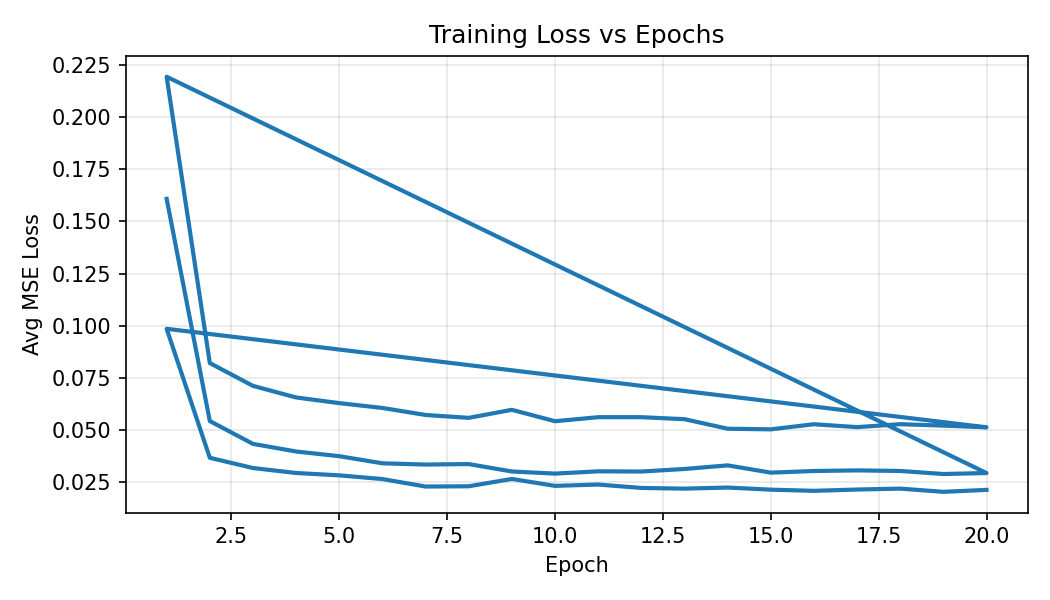
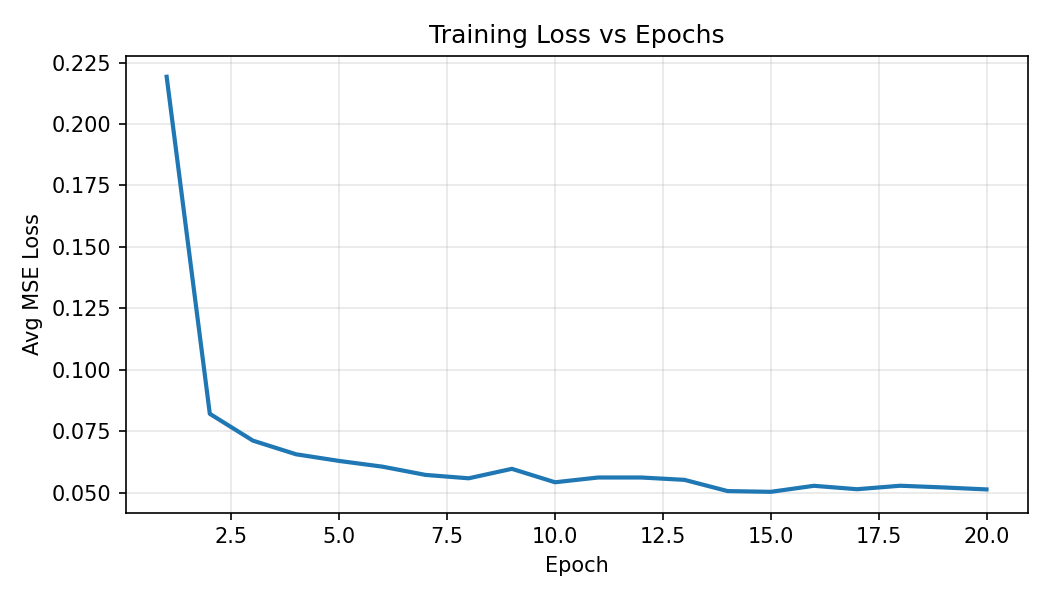
clean up

diff --git a/train.py b/train.py
@@ -1,7 +1,6 @@
 from __future__ import annotations
 
 import math
-from copy import deepcopy
 from dataclasses import dataclass
 from pathlib import Path
 
@@ -25,8 +24,6 @@ EPOCHS = 20
 NUM_WORKERS = 2
 SAVE_EVERY_EPOCHS = 1
 SUBSET_FRACTION = 0.1
-USE_EMA = True
-EMA_BETA = 0.999
 GRAD_ACCUM_STEPS = 4
 # Resume training from checkpoints/ckpt_latest.pt if present
 RESUME_TRAINING = True
@@ -49,8 +46,8 @@ class FlatImageDataset(Dataset):
         self.tfm = T.Compose(
             [
                 T.Resize((image_size, image_size), interpolation=T.InterpolationMode.BICUBIC),
-                T.ToTensor(),  # [0, 1]
-                T.Normalize((0.5, 0.5, 0.5), (0.5, 0.5, 0.5)),  # [-1, 1]
+                T.ToTensor(),
+                T.Normalize((0.5, 0.5, 0.5), (0.5, 0.5, 0.5)),
             ]
         )
 
@@ -84,16 +81,6 @@ def sinusoidal_time_embedding(timesteps: torch.Tensor, dim: int) -> torch.Tensor
     if dim % 2 == 1:
         emb = torch.cat([emb, torch.zeros((emb.shape[0], 1), device=device)], dim=1)
     return emb
-
-
-@dataclass(frozen=True)
-class EMA:
-    beta: float
-
-    @torch.no_grad()
-    def update(self, ema_model: nn.Module, model: nn.Module) -> None:
-        for ep, p in zip(ema_model.parameters(), model.parameters(), strict=True):
-            ep.data.mul_(self.beta).add_(p.data, alpha=1.0 - self.beta)
 
 # =============================
 # U-Net (64 -> 128 -> 256)
@@ -219,20 +206,6 @@ class UNet(nn.Module):
 def linear_beta_schedule(T: int, beta_start: float = 1e-4, beta_end: float = 2e-2) -> torch.Tensor:
     return torch.linspace(beta_start, beta_end, T, dtype=torch.float32)
 
-
-def cosine_beta_schedule(T: int, s: float = 0.008) -> torch.Tensor:
-    """
-    cosine noise schedule from Nichol & Dhariwal (2021).
-    Returns betas in (0, 1) with length T.
-    """
-    steps = T + 1
-    x = torch.linspace(0, T, steps, dtype=torch.float32)
-    alphas_cumprod = torch.cos(((x / T) + s) / (1 + s) * math.pi * 0.5) ** 2
-    alphas_cumprod = alphas_cumprod / alphas_cumprod[0]
-    betas = 1.0 - (alphas_cumprod[1:] / alphas_cumprod[:-1])
-    return betas.clamp(1e-8, 0.999)
-
-
 @dataclass
 class Schedule:
     betas: torch.Tensor
@@ -242,7 +215,7 @@ class Schedule:
 
 
 def make_schedule(T: int, device: torch.device) -> Schedule:
-    betas = cosine_beta_schedule(T).to(device)
+    betas = linear_beta_schedule(T).to(device)
     alphas = 1.0 - betas
     alphas_cumprod = torch.cumprod(alphas, dim=0)
     return Schedule(
@@ -267,12 +240,8 @@ class DDPMTrainer:
         noise = torch.randn_like(x0)
         xt = self.q_sample(x0, t, sch, noise)
         pred = self.model(xt, t)
-        # SNR weighting: w = snr / (snr + 1), snr = alpha_bar / (1 - alpha_bar)
-        alpha_bar_t = extract(sch.alphas_cumprod, t, x0.shape)
-        snr = alpha_bar_t / (1.0 - alpha_bar_t).clamp_min(1e-8)
-        weight = snr / (snr + 1.0)
         loss = (pred - noise) ** 2
-        return (weight * loss).mean()
+        return (loss).mean()
 
 
 def _load_latest_checkpoint(out_dir: Path, device: torch.device) -> dict | None:
@@ -298,7 +267,6 @@ def main() -> None:
         shuffle=True,
         num_workers=int(NUM_WORKERS),
         pin_memory=torch.cuda.is_available(),
-        drop_last=True,
     )
 
     model = UNet().to(device)
@@ -306,12 +274,6 @@ def main() -> None:
     sch = make_schedule(int(TIMESTEPS), device=device)
 
     opt = torch.optim.AdamW(model.parameters(), lr=float(LR))
-
-    ema_model = None
-    ema = None
-    if bool(USE_EMA):
-        ema_model = deepcopy(model).eval().requires_grad_(False)
-        ema = EMA(beta=float(EMA_BETA))
 
     global_step = 0
     start_epoch = 1
@@ -327,9 +289,6 @@ def main() -> None:
             ckpt_timesteps = int(ckpt.get("timesteps", int(TIMESTEPS)))
             sch = make_schedule(ckpt_timesteps, device=device)
             trainer.timesteps = ckpt_timesteps
-
-            if ema_model is not None and ckpt.get("ema_model") is not None:
-                ema_model.load_state_dict(ckpt["ema_model"])
 
             print(f"Resuming from {out_dir / 'ckpt_latest.pt'} at epoch {start_epoch}/{EPOCHS}.")
 
@@ -353,9 +312,6 @@ def main() -> None:
                 opt.step()
                 opt.zero_grad(set_to_none=True)
 
-                if ema_model is not None and ema is not None:
-                    ema.update(ema_model, model)
-
                 global_step += 1
 
             loss_sum += float(loss.item())
@@ -367,9 +323,6 @@ def main() -> None:
             torch.nn.utils.clip_grad_norm_(model.parameters(), 1.0)
             opt.step()
             opt.zero_grad(set_to_none=True)
-
-            if ema_model is not None and ema is not None:
-                ema.update(ema_model, model)
 
             global_step += 1
 
@@ -385,7 +338,6 @@ def main() -> None:
                 "timesteps": int(TIMESTEPS),
                 "image_size": int(IMAGE_SIZE),
                 "model": model.state_dict(),
-                "ema_model": ema_model.state_dict() if ema_model is not None else None,
                 "opt": opt.state_dict(),
                 "cfg": {
                     "data_dir": DATA_DIR,
@@ -398,8 +350,6 @@ def main() -> None:
                     "num_workers": NUM_WORKERS,
                     "save_every_epochs": SAVE_EVERY_EPOCHS,
                     "subset_fraction": SUBSET_FRACTION,
-                    "use_ema": USE_EMA,
-                    "ema_beta": EMA_BETA,
                 },
             }
             torch.save(ckpt, out_dir / "ckpt_latest.pt")

diff --git a/visualize.py b/visualize.py
@@ -174,7 +174,6 @@ def load_model_from_ckpt(ckpt_path: Path, device: torch.device) -> tuple[torch.n
     timesteps = int(ckpt.get("timesteps", train.TIMESTEPS))
     image_size = int(ckpt.get("image_size", train.IMAGE_SIZE))
     model = train.UNet().to(device)
-    # state = ckpt.get("ema_model") or ckpt["model"]
     state = ckpt["model"]
     model.load_state_dict(state)
     model.eval()